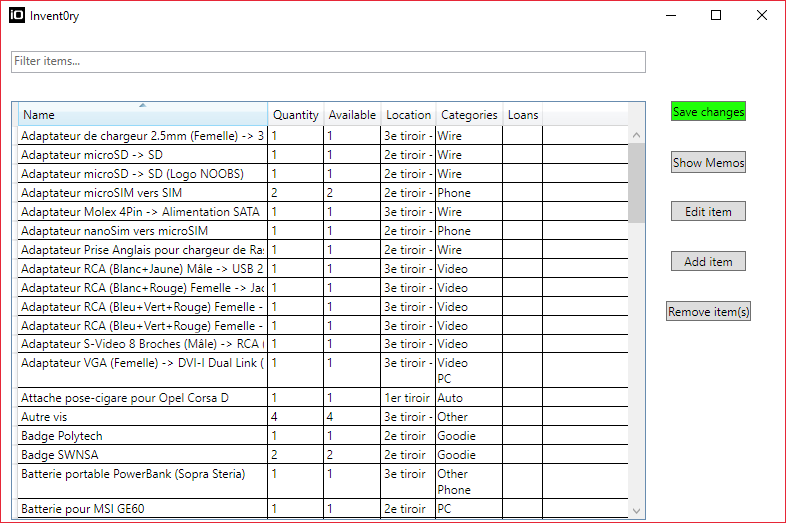
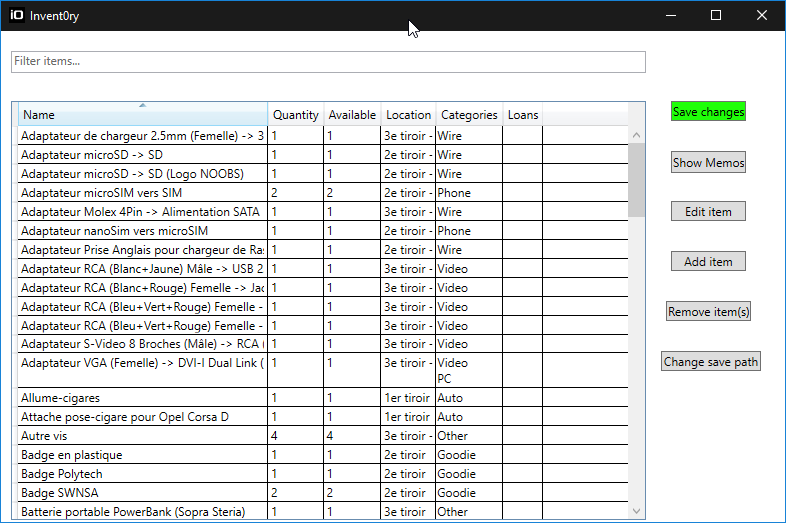
Updated README.md and img

diff --git a/README.md b/README.md
@@ -19,6 +19,6 @@ Just a simple app to help me list stuff like wires
 
 ## Notes
 
-The item list is saved in your ``Documents\SkyNetLabs\invent0ry`` as ``inventory.json``.
+The item list is saved in this path by default: ``Documents\SkyNetLabs\invent0ry`` as ``inventory.json``. This path can be changed.
 
 If you want to put memo pictures you have to put them in the same directory, all main extensions are supported (.png, .jpg, etc.)
